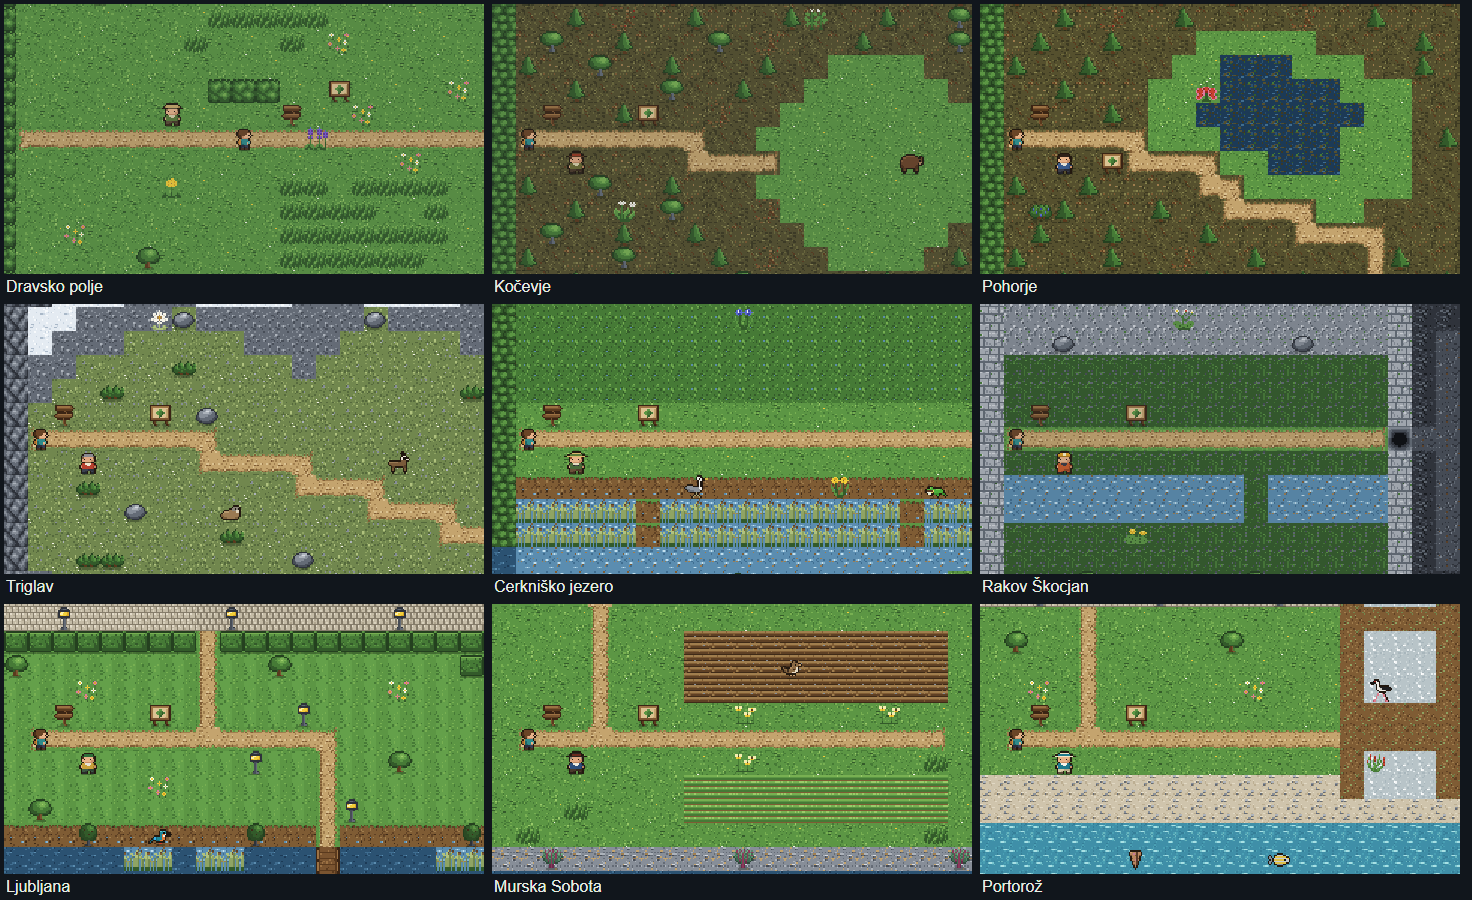
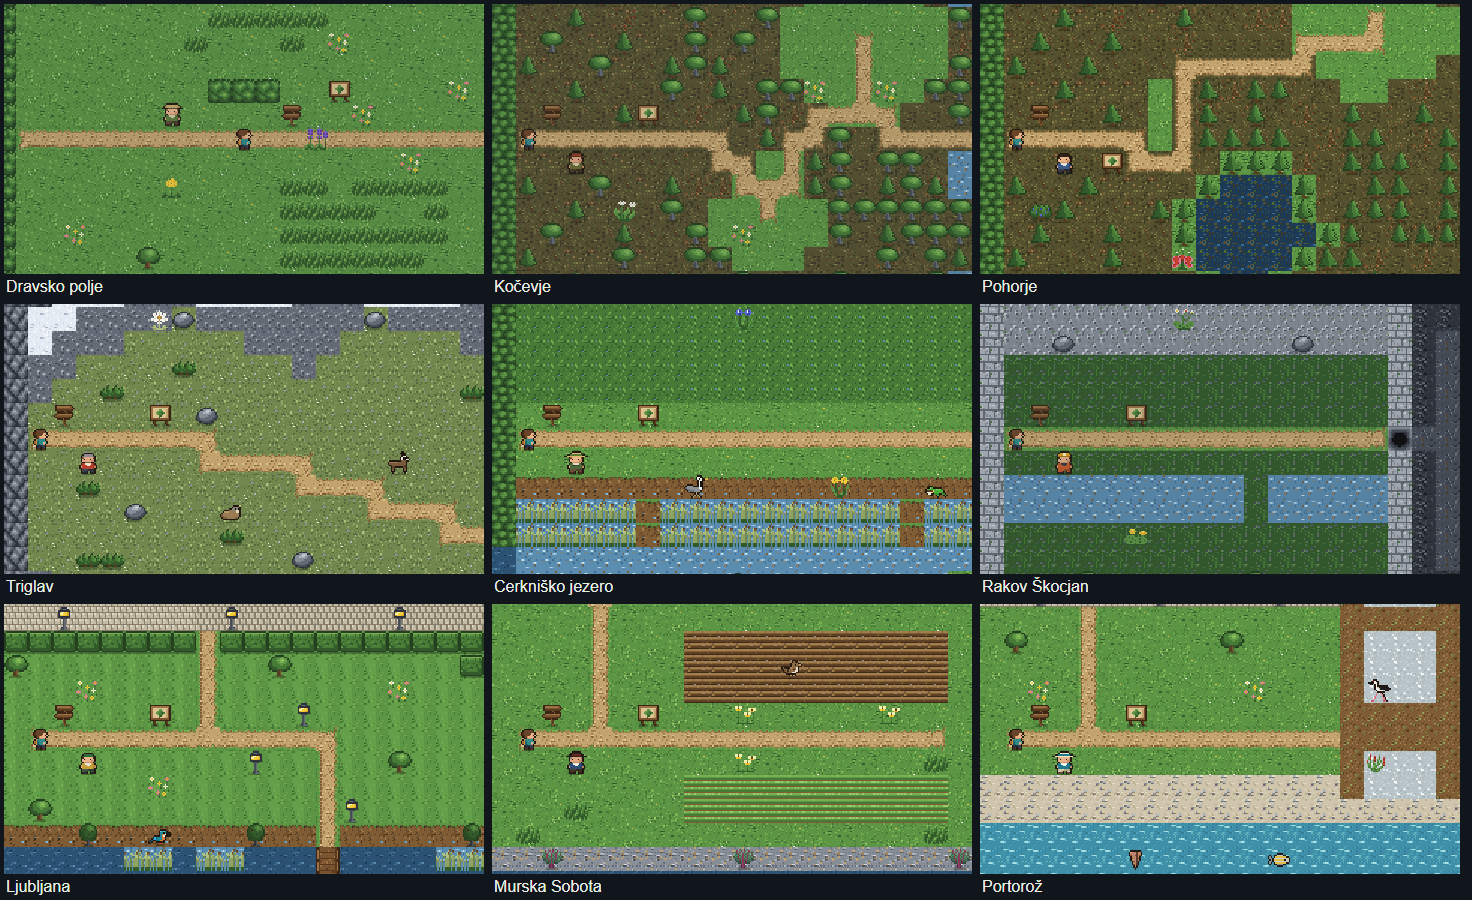
World generation phase 1: docs, D13, E2E with a fixed seed
Decision D13 (generated worlds), the architecture, content and gameplay
docs, and the regions image with the generated forests. E2E runs with
a fixed development seed and checks the debug view; the title screen
keeps the address's query when it starts the game.

Changed region(s): [[0.7812, 0.0, 1.0, 0.3111], [0.4688, 0.0, 0.6875, 0.3111]]

diff --git a/client/e2e/world.spec.ts b/client/e2e/world.spec.ts
@@ -1,0 +1,39 @@
+import { expect, test } from '@playwright/test';
+
+// Generated worlds (docs/decisions.md D13): the save's maps come from the API, and development builds have a debug view.
+
+test('the debug view shows the map, and generated maps say how they were made', async ({
+  page,
+}) => {
+  await page.goto('/?debug=world');
+  await page.getByRole('button', { name: 'Nova igra' }).click();
+  await expect
+    .poll(() =>
+      page.locator('app-game-canvas canvas').evaluate((c) => (c as HTMLCanvasElement).width),
+    )
+    .toBeGreaterThan(0);
+
+  // The meadow is authored: the panel names it, with no generation details.
+  await expect(page.locator('.play__debug')).toHaveText('dravsko_polje_meadow');
+
+  // Kočevje is generated from the save's world seed (fixed to 1 for these tests).
+  const kocevje = await page.evaluate(async () => {
+    const token = localStorage.getItem('slovion.saveToken');
+    const response = await fetch('/api/save/maps/kocevje_forest', {
+      headers: { Authorization: 'Bearer ' + token },
+    });
+    return { status: response.status, world: response.headers.get('X-World') };
+  });
+  expect(kocevje).toEqual({
+    status: 200,
+    world: 'seed=1; version=1; biomes=fir_beech_forest',
+  });
+});
+
+test('without the debug flag there is no debug view', async ({ page }) => {
+  await page.goto('/');
+  await page.getByRole('button', { name: 'Nova igra' }).click();
+  await expect(page.locator('app-game-canvas canvas')).toBeVisible();
+
+  await expect(page.locator('.play__debug')).toHaveCount(0);
+});

diff --git a/client/playwright.config.ts b/client/playwright.config.ts
@@ -45,7 +45,12 @@ export default defineConfig({
       command:
         'dotnet run --project ../src/Slovion.Api --configuration Release --no-launch-profile',
       url: `${apiUrl}/health`,
-      env: { ASPNETCORE_URLS: apiUrl, ASPNETCORE_ENVIRONMENT: 'Development' },
+      // One world seed for every save (development only, D13), so generated maps are the same on every run.
+      env: {
+        ASPNETCORE_URLS: apiUrl,
+        ASPNETCORE_ENVIRONMENT: 'Development',
+        WorldGeneration__FixedSeed: '1',
+      },
       reuseExistingServer: !ci,
       timeout: 180_000,
     },

diff --git a/client/src/app/title/title-screen.ts b/client/src/app/title/title-screen.ts
@@ -59,7 +59,8 @@ export class TitleScreen {
       this.error.set(error);
       this.hasSave.set(this.session.hasSavedGame());
     } else {
-      await this.router.navigate(['/play']);
+      // The address's query (e.g. the development-only ?debug=world) carries over to the game.
+      await this.router.navigate(['/play'], { queryParamsHandling: 'preserve' });
     }
   }
 }

diff --git a/openspec/changes/add-world-generation/tasks.md b/openspec/changes/add-world-generation/tasks.md
@@ -1,19 +1,19 @@
 ## Phase 1 — core, per-save maps, two forests
 
-- [ ] 1.1 Domain `WorldGeneration`: PRNG (PCG32) and FNV-1a seeding with stage sub-streams; tests (known sequences, determinism)
-- [ ] 1.2 Domain models: biome definition, template, generated map (layers, collision, zones, objects); grid helpers (flood fill, A*, noise, cellular smoothing, autotile masks); tests
-- [ ] 1.3 Stages 1–9 (base, terrain layers, openings, water, paths, zones, vegetation, spots, validation with retries and fallback); tests per stage
-- [ ] 1.4 Generator property tests over many seeds per biome: determinism, different seeds differ, spawn valid, connectivity, bounds, zones match biome rules, species compatibility, the fallback is rarely used and never fails
-- [ ] 1.5 Infrastructure: load and validate `biomes/`, templates (`biome` property, `generated` rectangles, connectors, `generation` species) and species `placement`; write generated maps as Tiled JSON; content tests
-- [ ] 1.6 Saves: `world_seed`, `world_version` (migration; existing saves seeded from their ID); injectable `IWorldSeedSource`; `WorldGeneration:FixedSeed` in Development only
-- [ ] 1.7 Application `SaveMaps` with an LRU cache; move the layout lookups from the catalog; encounters, searches, wildlife, quests and weather use the save's map; tests
-- [ ] 1.8 API `GET /api/save/maps/{mapId}` (ETag, 304, `unknown_map`, `invalid_save_token`; `X-World` in Development); integration tests; OpenAPI
-- [ ] 1.9 Client: `WorldLoader` from the endpoint; the service worker caches it; tests
-- [ ] 1.10 Debug overlay (engine option) and dev panel, `?debug=world`, development builds only; tests
-- [ ] 1.11 Biomes `fir_beech_forest` (Kočevje) and `mountain_forest` (Pohorje); their templates and species placement; tiles added where needed
-- [ ] 1.12 E2E with a fixed seed; a route helper that walks to a target on the served map; update the Kočevje and Pohorje tests
-- [ ] 1.13 Decision D13; docs (architecture, content: biomes, templates, placement; gameplay)
-- [ ] 1.14 `dotnet test`, `npm run check`, `npm run e2e`; PR for phase 1
+- [x] 1.1 Domain `WorldGeneration`: PRNG (SplitMix64) and FNV-1a seeding with stage sub-streams; tests (known sequences, determinism)
+- [x] 1.2 Domain models: biome definition, template, generated map (layers, collision, zones, objects); grid helpers (flood fill, A*, noise, cellular smoothing, autotile masks); tests
+- [x] 1.3 Stages 1–9 (base, terrain layers, openings, water, paths, zones, vegetation, spots, validation with retries and fallback); tests per stage
+- [x] 1.4 Generator property tests over many seeds per biome: determinism, different seeds differ, spawn valid, connectivity, bounds, zones match biome rules, species compatibility, the fallback is rarely used and never fails
+- [x] 1.5 Infrastructure: load and validate `biomes/`, templates (`biome` property, `generated` rectangles, connectors, `generation` species) and species `placement`; write generated maps as Tiled JSON; content tests
+- [x] 1.6 Saves: `world_seed`, `world_version` (migration; existing saves seeded from their ID); injectable `IWorldSeedSource`; `WorldGeneration:FixedSeed` in Development only
+- [x] 1.7 `IWorldMaps` (Application) and `WorldMaps` (Infrastructure) with an LRU cache; move the layout lookups from the catalog; encounters, searches, wildlife and weather use the save's map (people are authored, so quests keep the catalog); tests
+- [x] 1.8 API `GET /api/save/maps/{mapId}` (ETag, 304, `unknown_map`, `invalid_save_token`; `X-World` in Development); integration tests; OpenAPI
+- [x] 1.9 Client: `WorldLoader` from the endpoint; tests (the service worker never cached maps, so offline play is unchanged)
+- [x] 1.10 Debug overlay (engine option) and dev panel, `?debug=world`, development builds only; tests
+- [x] 1.11 Biomes `fir_beech_forest` (Kočevje) and `mountain_forest` (Pohorje); their templates and species placement; tiles added where needed
+- [x] 1.12 E2E with a fixed seed (`WorldGeneration__FixedSeed=1`); the Kočevje and Pohorje tests walk only the authored strip, so the route helper waits for phase 3 (meadow); engine tests use the server's seed-1 maps as fixtures, kept current by a .NET test
+- [x] 1.13 Decision D13; docs (architecture, content: biomes, templates, placement; gameplay)
+- [x] 1.14 `dotnet test`, `npm run check`, `npm run e2e`; PR for phase 1
 
 ## Phase 2 — alpine, wetland, karst
 

diff --git a/docs/architecture.md b/docs/architecture.md
@@ -68,9 +68,9 @@ Randomness and time are injected on both sides (`IRandomSource` and `TimeProvide
 ```mermaid
 flowchart TB
   Api["<b>Slovion.Api</b><br/>endpoints, problem details,<br/>save-token filter, static /content"]
-  App["<b>Slovion.Application</b><br/>services: encounters, journal, quests,<br/>travel, wildlife, weather, stations<br/>ports: IContentCatalog, repositories, IRandomSource"]
-  Domain["<b>Slovion.Domain</b><br/>entities and rules: species, sightings,<br/>quest progress, world time, weather"]
-  Infra["<b>Slovion.Infrastructure</b><br/>FileContentCatalog (content/ files),<br/>EF Core DbContext, repositories, migrations"]
+  App["<b>Slovion.Application</b><br/>services: encounters, journal, quests,<br/>travel, wildlife, weather, stations<br/>ports: IContentCatalog, IWorldMaps,<br/>repositories, IRandomSource, IWorldSeedSource"]
+  Domain["<b>Slovion.Domain</b><br/>entities and rules: species, sightings,<br/>quest progress, world time, weather,<br/>world generation (pure, seeded)"]
+  Infra["<b>Slovion.Infrastructure</b><br/>FileContentCatalog (content/ files),<br/>WorldMaps (per-save maps, cached),<br/>EF Core DbContext, repositories, migrations"]
 
   Api --> App
   Api --> Infra
@@ -89,10 +89,14 @@ flowchart TB
   | Quests | talking to people, quest state, flags, tools | `conversations`, `progress` |
   | Travel | regions, unlock rules, the current region | `regions`, `travel` |
   | Wildlife | which resident animals are around now | `wildlife` |
-  | World | the in-game clock and the weather | `time`, `weather` |
+  | World | the in-game clock, the weather, and the save's maps (generated per save, D13) | `time`, `weather`, `maps/{mapId}` |
   | Stations | research stations and certificates | `stations` |
   | Content | the validated content catalog; maps, tilesets, sprites and pictures as static files | `GET /content/…` |
 
+- **Generated worlds (D13):**
+  - `Domain/WorldGeneration` is a pure, seeded generator. It fills a template's `generated` rectangles from their biomes in stages: terrain layers, openings, water, paths, decoration, pocket cleanup, zones, species spots and path tiles, then validation, retries and repair.
+  - `WorldMaps` serves each save its maps. Authored maps are the same for all saves; templates are generated from the save's `world_seed` and `world_version` and kept in a 64-entry LRU cache.
+  - Every generated map goes through the same validation as authored ones before it is used.
 - **Errors** are RFC 7807 problem details with a stable `code` (e.g. `unknown_map`, `invalid_save_token`); the client translates codes, never server text (D7).
 - **OpenAPI** is served at `/openapi/v1.json` in development.
 
@@ -216,6 +220,8 @@ erDiagram
     bytea token_hash
     timestamptz created_at "starts the in-game clock"
     text region_id "current region"
+    bigint world_seed "its generated world (D13)"
+    int world_version "generation version"
   }
   DISCOVERIES {
     uuid save_slot_id
@@ -241,7 +247,7 @@ erDiagram
   }
 ```
 
-- **Derived, not stored:** progress flags and tools come from completed quests, unlocked regions from flags, station certificates from research levels, the in-game time from `created_at`. Changing content therefore never needs a data migration.
+- **Derived, not stored:** progress flags and tools come from completed quests, unlocked regions from flags, station certificates from research levels, the in-game time from `created_at`, the natural maps from `world_seed` and `world_version`. Changing content therefore never needs a data migration.
 - **Migrations** run at API startup (EF Core, `src/Slovion.Infrastructure/Persistence/Migrations`). To add one: `dotnet tool restore`, then `dotnet ef migrations add <Name> --project src/Slovion.Infrastructure --output-dir Persistence/Migrations`.
 
 ## Deployment

diff --git a/docs/content.md b/docs/content.md
@@ -76,6 +76,43 @@ Maps are [Tiled](https://www.mapeditor.org/) JSON: orthogonal, 16 × 16 tiles, w
 
 By convention a region map is 26 × 20 tiles (the larger first meadow is the exception), with the spawn at (1, 9), the signpost at (2, 8), the region's person at (3, 10) and the station at (6, 8), all outside the habitat zones.
 
+### Generated maps (templates)
+
+A region's natural parts are generated per save (docs/decisions.md D13). Its map is then a **template**: everything outside its `generated` rectangles is authored and kept, everything inside is generated.
+
+| Class | Shape | Properties | Meaning |
+|---|---|---|---|
+| `generated` | rectangle | `biome`, `areaId`, optional `underground` (bool), `species` (comma-separated IDs) | filled from the biome; becomes the area; holds one spot of each species |
+| `connector` | point | — | on a generated rectangle's edge, where an authored path comes in; generated paths start there |
+
+Rules:
+- No authored object (spot, habitat or area zone, person, station…) may lie inside a `generated` rectangle; validation names any that does.
+- The authored path tile next to a connector must be open towards it.
+- The server generates every template with a few seeds at startup, so content that cannot be placed fails early.
+- To turn an authored map into a template, run `node client/scripts/make-template.mjs <config.json>` (see the script's header for the config).
+- The client's engine tests use the server's maps for world seed 1 (`client/src/engine/testing/maps/`). After changing a template, a biome or the generator, rewrite them with `SLOVION_UPDATE_FIXTURES=1 dotnet test --project tests/Slovion.IntegrationTests`.
+
+**Biomes** (`biomes/<id>.json`) are gameplay data (D6). Tiles are tileset indices (Tiled GID − 1).
+
+| Field | Meaning |
+|---|---|
+| `floor` | the base ground tiles |
+| `pathSet` | first tile of a 16-tile path set: +1/+2/+4/+8 when the north/east/south/west side is closed |
+| `border` | blocking tiles where the area meets the map's edge |
+| `layers` | terrains grown from smoothed noise: `id`, `coverage` (0–1), `scale` (blob size in tiles), `smooth` (passes), optional `floor` |
+| `openings` | clearings that paths lead to: `count` and `radius` ranges, `floor`, `pathSet` |
+| `water` | `kind` (`stream` or `pond`), `chance`, `size`, `tiles` (`wadeable` tiles let the boots through), optional `bank` |
+| `decor` | `tiles`, `blocking`, `density` and `where` |
+| `zones` | in order, the first match wins: `kind`, `where` and the `habitat` it belongs to (none: placement only, not searchable) |
+
+`where` selects cells: `any`, `floor`, `opening`, `water`, `layer:<id>`, `edge:<id>[:distance]` (both sides of a layer's boundary), `near:water[:distance]`.
+
+**Placement** in a species file, gameplay data never shown (D6):
+- `zones`: preferred zone kinds, best first; without it, every zone kind whose habitat lists the species
+- `water`: `in` (aquatic) or `near`
+- `tile`: for a plant, the decoration drawn at its spot (required)
+- `blocking`: the plant blocks its tile, like a shrub
+
 ## Sound
 
 Music and nature sounds are synthesized in the browser (no recordings), so they are client data rather than `content/`: small JSON files in [`client/public/audio/`](../client/public/audio/), cached by the installed app. No sound stands for a particular species (D6); species calls are a later feature.

diff --git a/docs/decisions.md b/docs/decisions.md
@@ -55,7 +55,7 @@ No accounts and no login. A new game creates an **anonymous save slot** identifi
 ## D7 — Content storage (Accepted, 2026-10-02)
 
 - Game content (species, habitats, maps, quests, dialogue, localized content text) lives as **versioned data files in the repository** under `content/`, validated in CI.
-- Maps are authored in **Tiled** and stored as Tiled JSON; collision and habitat zones are layers in the same map so client and server read one source.
+- Maps are authored in **Tiled** and stored as Tiled JSON; collision and habitat zones are layers in the same map so client and server read one source. Natural parts of maps are generated per save from templates (D13).
 - The backend loads content at startup and serves it; PostgreSQL stores **player state only**, not content.
 - UI strings (menus, buttons, system messages) live in the Angular translation catalog. Content text (species facts, dialogue, quest text) lives with the content, keyed by locale.
 - The API never returns player-facing prose for UI messages; it returns stable codes and content IDs.
@@ -90,3 +90,19 @@ Slovion runs on **one Oracle Cloud Always Free Arm VM** (Ubuntu 24.04) as a Dock
 - **VM setup:** a runbook and one bootstrap script; no infrastructure-as-code yet.
 
 Details and operations: [hosting.md](hosting.md).
+
+## D13 — Generated worlds (Accepted, 2026-10-06)
+
+The natural parts of the regions are **generated per save**, amending D7's "maps are authored in Tiled". The owner chose a seed per save and generation for every region.
+
+- **Templates:** a region's Tiled map is a template.
+  - The spawn, signpost, person and station stay authored, with their names and places, and so does anything a quest depends on.
+  - Rectangles of class `generated` name a biome, an area and the species they hold; the generator fills them.
+- **Determinism:** a generated map is a pure function of the template, the biomes, the save's **world seed** and the **generation version** (stored per save, never changed). It uses a seeded SplitMix64 generator, never `Random` or a clock.
+  - Bumping the version is how the algorithm changes without silently changing existing worlds.
+  - Editing a biome or a template changes every save's world. That is accepted, because quests, discoveries and research never depend on layout.
+- **Biomes are data** (`content/biomes/`): terrain layers, openings, water, paths, decoration and zone kinds, each zone kind belonging to a habitat. The generator knows no biome by name.
+- **Placement data is gameplay data (D6):** a species' `placement` (preferred zone kinds, water) decides where its spot goes. It is never shown to players.
+- **Authority (D3):** the server generates, caches and validates every map: everything that must be reachable from the spawn is. It serves maps at `GET /api/save/maps/{mapId}`; the client only draws them. Encounters, searches and wildlife use the save's map.
+- **Encounters stay dynamic:** the world is static per save; time, season and weather still decide what is around (D8, D11).
+- **Development and tests** may fix the seed (`WorldGeneration:FixedSeed`); the server refuses it outside development.

diff --git a/openspec/changes/add-world-generation/design.md b/openspec/changes/add-world-generation/design.md
@@ -40,7 +40,7 @@ Motivation and owner decisions: see proposal.md.
 
 ### 2. Determinism
 
-- **PRNG:** `Pcg32` (or SplitMix64), a small, well-known, testable algorithm in the Domain. No `Random`, no clocks.
+- **PRNG:** SplitMix64, a small, well-known, testable algorithm in the Domain, checked against its published test vectors. No `Random`, no clocks.
 - **Map seed:** the 64-bit FNV-1a hash of `worldSeed / mapId / biomeId / version`, the same hashing family as D11.
 - **Sub-streams:** each stage gets its own stream (`seed ⊕ hash(stageName)`). Changing one stage's tuning doesn't reshuffle the others.
 - **Version:**
@@ -217,11 +217,11 @@ Species files gain an optional block of gameplay placement data:
 
 ### 8. Per-save maps on the server
 
-- **`SaveMaps`:**
+- **`WorldMaps`:**
   - authored maps come from the catalog, the same for every save
   - natural maps come from the cache, or are generated from the template, biome and the save's seed and version
   - it returns a `MapLayout` (spots, habitat rectangles, NPC placements, spawn) and the Tiled JSON
-- **The four layout lookups move from `IContentCatalog` to `SaveMaps`:** `EncounterService`, `QuestService`, `WildlifeService` and `WeatherService` take the save.
+- **The layout lookups move from `IContentCatalog` to `IWorldMaps`** (implemented by `WorldMaps`): spots and habitat zones per save, used by `EncounterService` and `WildlifeService`. `WeatherService` only asks whether a map exists. People are authored, so `QuestService` keeps finding them in the catalog.
   - The catalog keeps only global content: species, habitats, regions, quests, stations, items, biomes and templates.
 - **`GET /api/save/maps/{mapId}`:**
   - `200` with the Tiled JSON and an `ETag` of `(seed, version, content hash)`

diff --git a/docs/gameplay.md b/docs/gameplay.md
@@ -25,6 +25,10 @@ Slovion is about **observing real Slovenian nature**: walk through a region, mee
 |---|---|---|
 | ![The observation dialog](images/identify.png) | ![Terenski dnevnik](images/journal.png) | ![A species page with sources](images/species-page.png) |
 
+## Every save, its own world
+
+The forests of Kočevje and Pohorje are generated for each save (docs/decisions.md D13): a new game gets its own stands of trees, clearings, a stream or a bog, and paths through them, and keeps them for good. The spawn, the signpost, the person and the station stay where they always are, so quests and travel work the same. The animals and plants live where they belong: the red deer at the forest edge or in a clearing, the sundew at the edge of the bog. The other regions follow in the next steps.
+
 ## Time, seasons and weather
 
 - **One real second is one in-game minute.** A day has a morning, day, evening and night; a season lasts three in-game days. The clock belongs to the save and runs on the server (D8).
